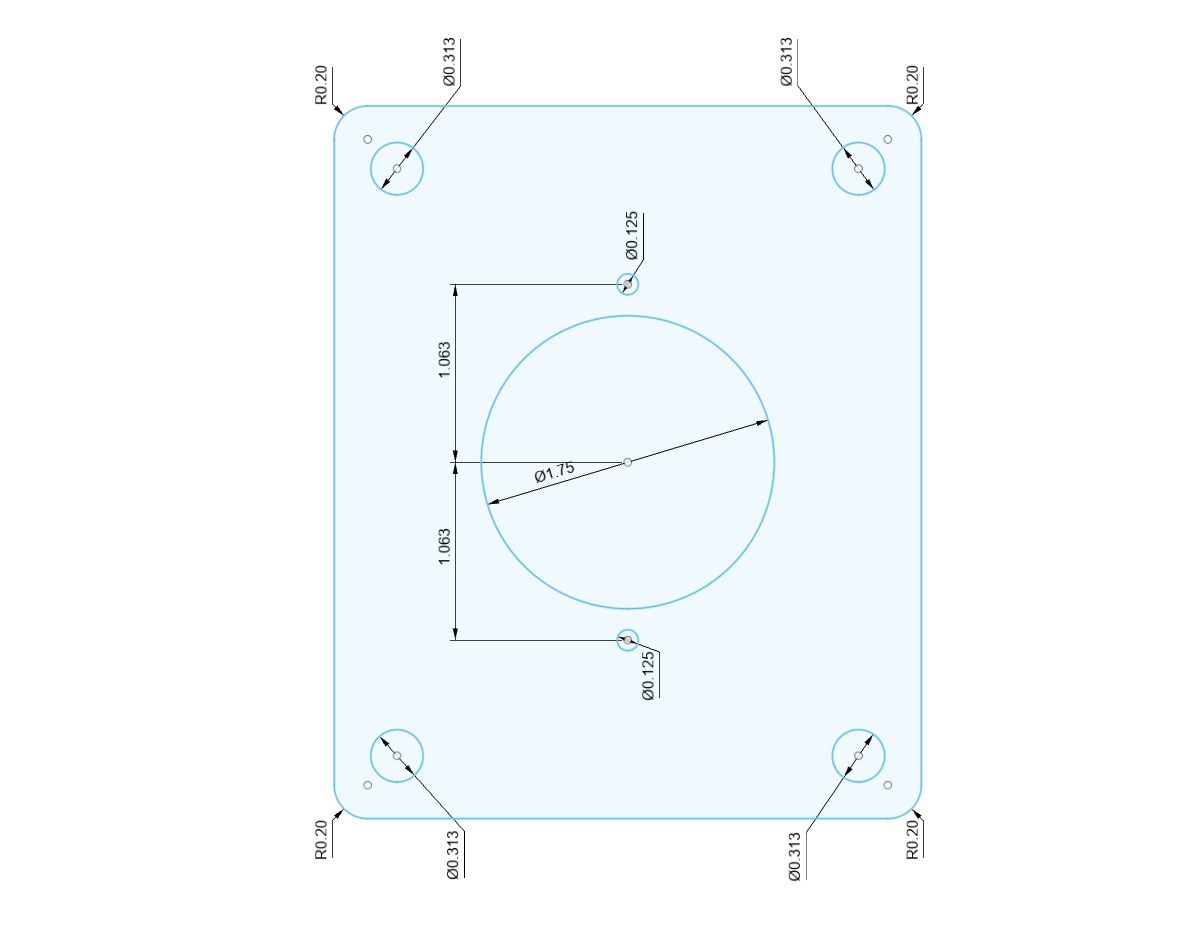
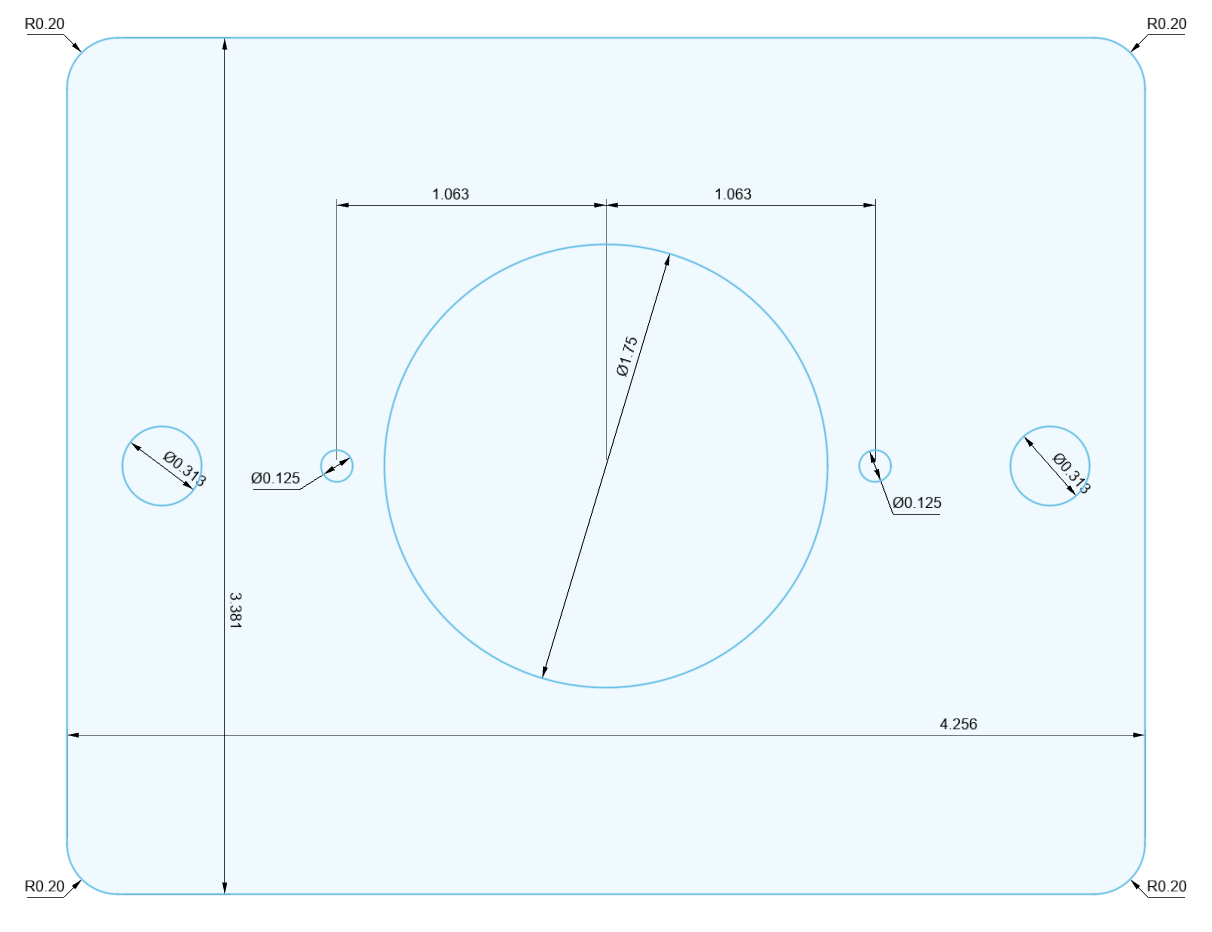
updated shorepower plate post

diff --git a/blog/2021-12-13-smartplug-mount/smartplug-mount.md b/blog/2021-12-13-smartplug-mount/smartplug-mount.md
@@ -44,10 +44,10 @@ Once we were satisfied that everything fit, I finished the design in Fusion 360.
 ![shorepower](smartplug-plate-dims.png)
 _The smartplug/aux solar dxf is [here](smartplug-plate-order.dxf)._
 
-While I was at it, I when ahead and designed a second plate for the adjacent rectangular port that will house an [exterior plug](https://www.amazon.com/gp/product/B07SLM8LT5/ref=ppx_yo_dt_b_asin_title_o00_s00?ie=UTF8&psc=1), now that I knew it wouldn't be needed for the aux solar connection.  This was much more straight forward.  Update:  Oops, didn't take the time to do a physical sanity check, and there is an interference with the tow hitch stucture...so there will be another design iteration.  Repeat after me: All models are wrong.  Don't confuse the map for the territory.
+While I was at it, I when ahead and designed a second plate for the adjacent rectangular port that will house an [exterior plug](https://www.amazon.com/gp/product/B07SLM8LT5/ref=ppx_yo_dt_b_asin_title_o00_s00?ie=UTF8&psc=1), now that I knew it wouldn't be needed for the aux solar connection.  This was much more straight forward.  ~~Update:  Oops, didn't take the time to do a physical sanity check, and there is an interference with the tow hitch stucture...so there will be another design iteration.  Repeat after me: All models are wrong.  Don't confuse the map for the territory.~~ Update: Redesigned to avoid tow hitch interference and reduce number of fastening points.
 
 ![outlet](plug-mount-dims.png)
-_The outlet plate dxf is [here](outlet-plate-order.dxf). This is wrong!_
+_The outlet plate dxf is [here](outlet-plate-order.dxf)._
 
 We sent the designs off to sendcutsend.  We ordered them in 1/8 aluminum which should be plenty stout and corrosion resistant.  The total for both plates was $19 even.  Not bad.
 
@@ -65,7 +65,7 @@ _Back view with components._
 ![fitcheck](fitcheck.jpeg)
 _Fitup in place._
 
-Next up is to trim some adhesive foam backing, install plusnuts, wire and bolt into place.
+We ordered some [adhesive neoprene sheet](https://www.amazon.com/dp/B0773CLB3R) from amazon and added that to the backside to act as a waterproof gasket.
 
 
 ## Other Useful Things
@@ -82,3 +82,4 @@ Note, this doesn't reflect full time effort. It's mostly evenings and partial da
 * Templated/designed (Mon 12-13-2021)
 * Made drawings and placed order (Tue 12-14-2021)
 * Received plates and fit check (Sat 12-17-2021)
+* Added adhesive foam to shorepower plate (Tue 12-28-2021)
